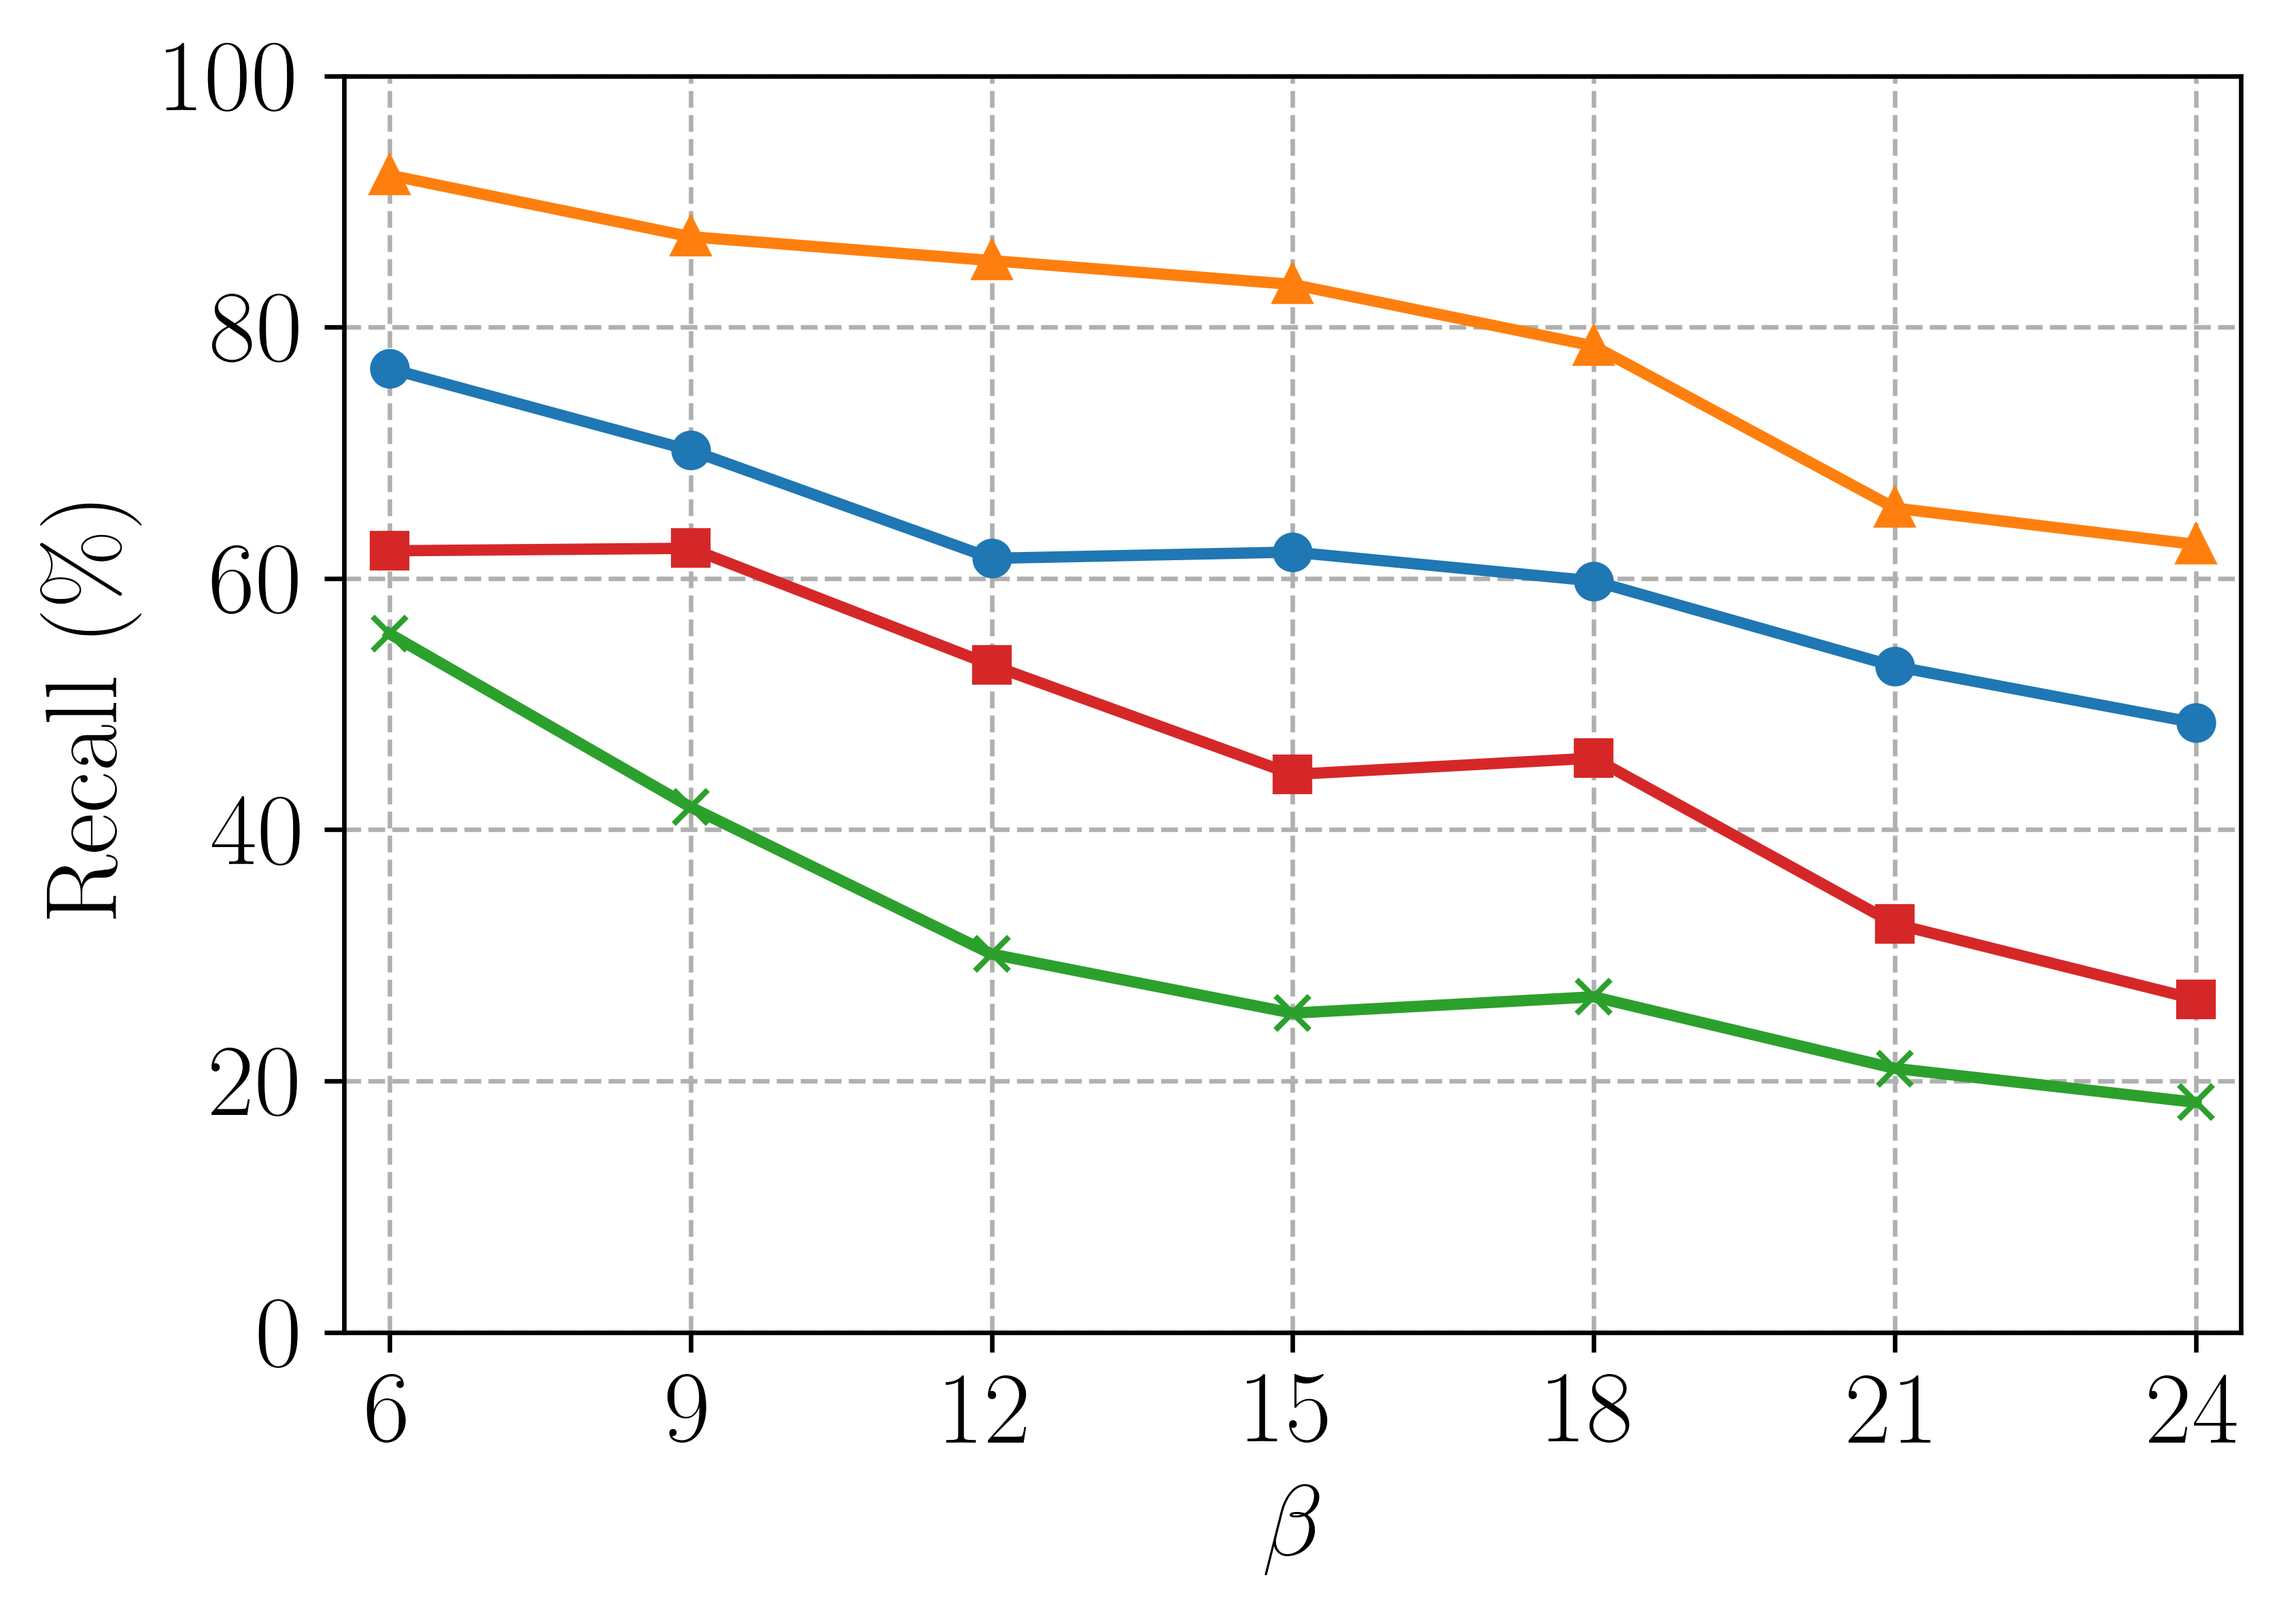
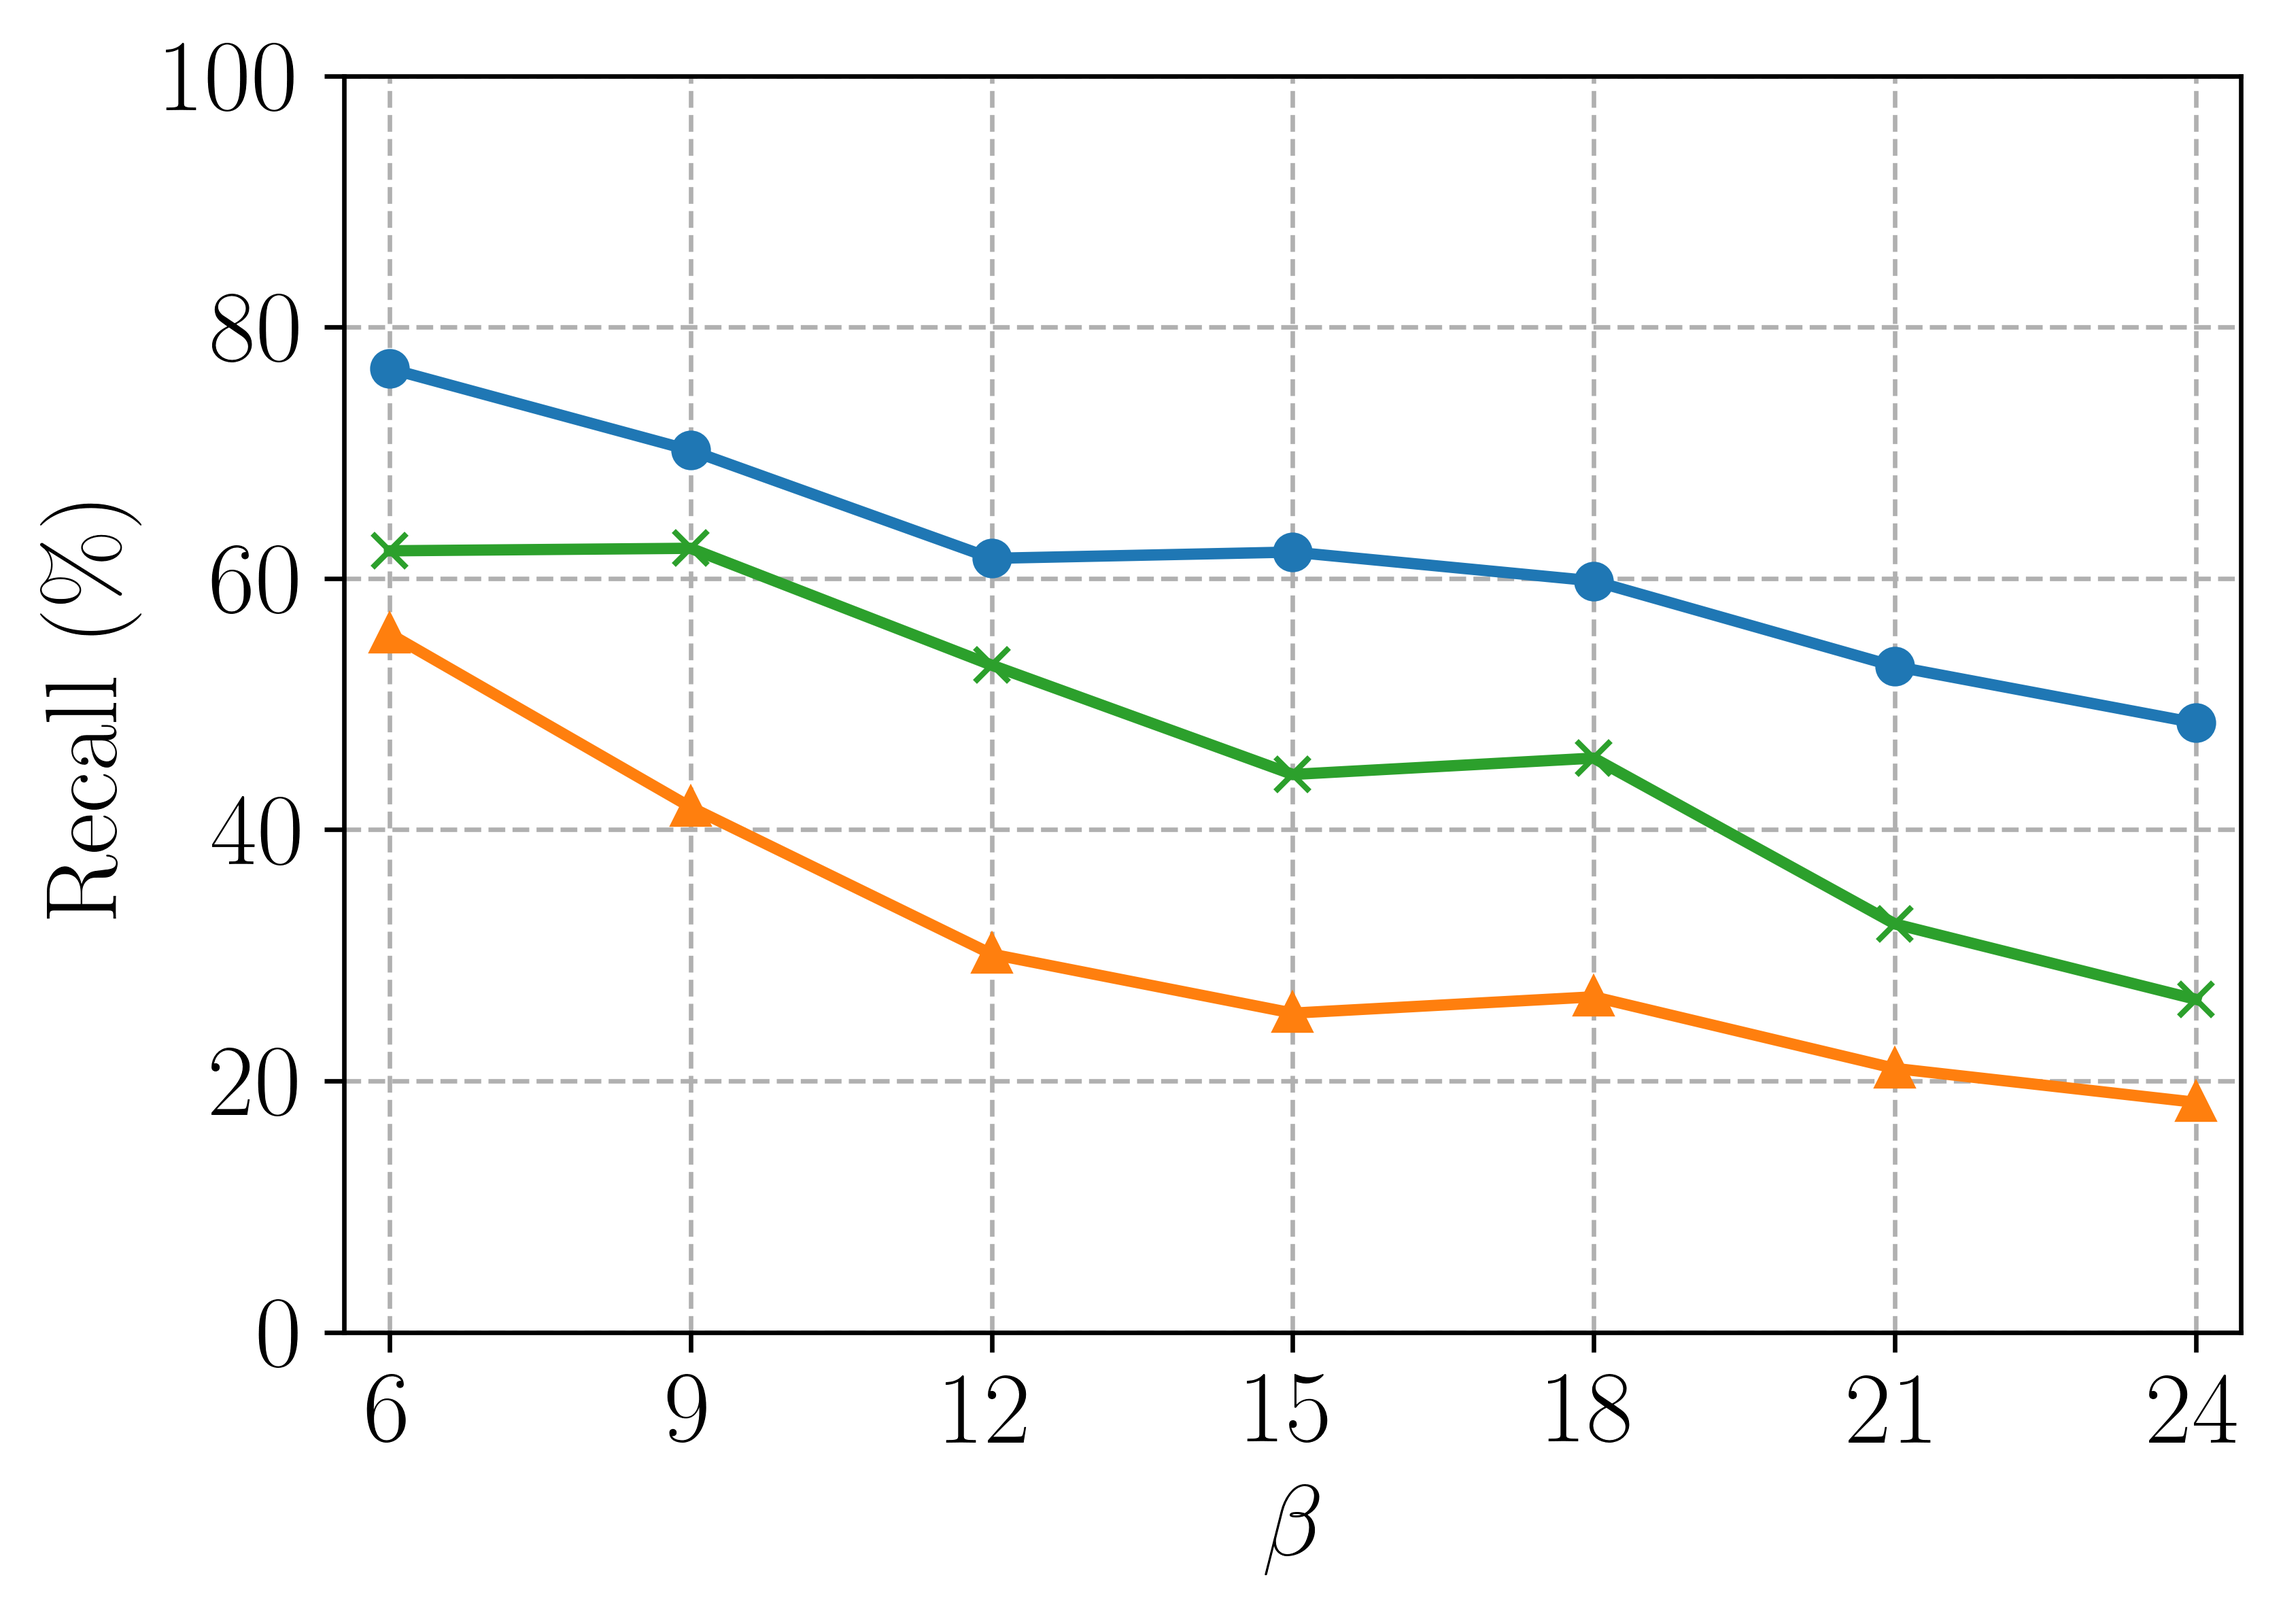
wip: changing to new results

diff --git a/draw.py b/draw.py
@@ -104,7 +104,7 @@ def generate_plots_data(x, y_pre, y_recall, param_name, xlim, ylim, xticks, xlim
     common_params = {
         'xlim': xlim,
         'ylim': ylim,
-        'labellist': ['Ours', 'Fornaciari', 'Jia', 'Shen'],
+        'labellist': ['Ours', 'Jia', 'Shen', 'Meng', 'Zhao'],
         'xticks': xticks,
         'xlimD': xlimD,
         'ylimD': ylimD,
@@ -134,13 +134,11 @@ def main():
     x_beta = np.arange(6, 25, 3)
     y_pre_beta = np.array([
         [88.2, 80.2, 76.6, 72.1, 69.8, 66.0, 63.5],
-        [29.6, 25.2, 24.3, 18.5, 16.6, 13.8, 9.9],
         [63.6, 62.1, 63.0, 51.8, 42.4, 32.1, 29.8],
         [82.7, 78.2, 69.4, 61.9, 58.7, 54.7, 51.5]
     ])
     y_recall_beta = np.array([
         [76.7, 70.2, 61.6, 62.1, 59.8, 53.0, 48.5],
-        [92.1, 87.2, 85.3, 83.4, 78.5, 65.6, 62.7],
         [55.6, 41.8, 30.1, 25.4, 26.7, 21.0, 18.3],
         [62.2, 62.4, 53.1, 44.4, 45.7, 32.5, 26.5]
     ])
@@ -150,13 +148,11 @@ def main():
     x_d = np.arange(0.06, 0.25, 0.03)
     y_pre_d = np.array([
         [81.7, 67.2, 52.6, 42.1, 21.6, 11.1, 5.6],
-        [29.6, 12.2, 3.3, 1.1, 0.9, 0.7, 0.5],
         [63.6, 20.6, 10.3, 5.1, 3.0, 1.5, 1.0],
         [92.2, 51.2, 25.6, 13.0, 6.5, 3.3, 1.7]
     ])
     y_recall_d = np.array([
         [76.7, 50.2, 21.6, 6.1, 2.8, 1.0, 0.5],
-        [92.1, 35.2, 10.3, 3.1, 1.9, 1.7, 1.5],
         [55.6, 11.8, 5.1, 2.4, 1.7, 1.0, 0.8],
         [62.2, 22.4, 13.1, 4.4, 2.7, 1.5, 1.3]
     ])
@@ -166,13 +162,11 @@ def main():
     x_iou = np.arange(0.78, 0.97, 0.02)
     y_pre_iou = np.array([
         [81.7, 81.2, 80.6, 80.1, 79.6, 79.1, 78.6, 78.1, 75.6, 62.1],
-        [35.6, 35.7, 34.8, 34.1, 33.4, 33.1, 29.8, 23.2, 16.6, 6.8],
         [63.6, 63.1, 62.6, 62.1, 61.6, 61.1, 57.9, 48.1, 35.6, 17.1],
         [88.5, 88.2, 88.1, 87.2, 87.0, 86.2, 82.8, 72.8, 62.2, 41.2]
     ])
     y_recall_iou = np.array([
         [76.7, 76.2, 75.6, 75.1, 74.6, 74.1, 73.6, 73.1, 65.6, 42.1],
-        [92.1, 92.2, 91.3, 90.6, 89.9, 89.6, 86.3, 79.7, 73.1, 63.3],
         [55.6, 55.1, 54.6, 54.1, 53.6, 53.1, 49.9, 40.1, 27.6, 9.1],
         [62.2, 61.9, 61.8, 60.9, 60.7, 59.9, 56.5, 46.5, 35.9, 14.9]
     ])
